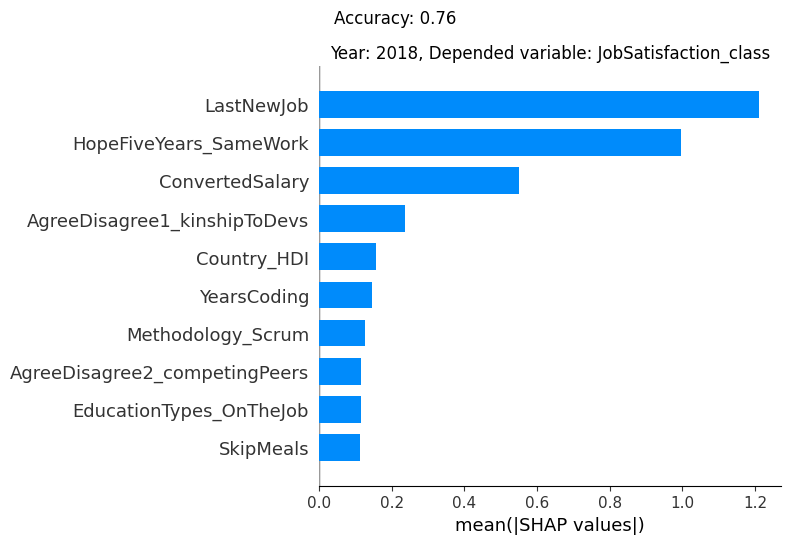
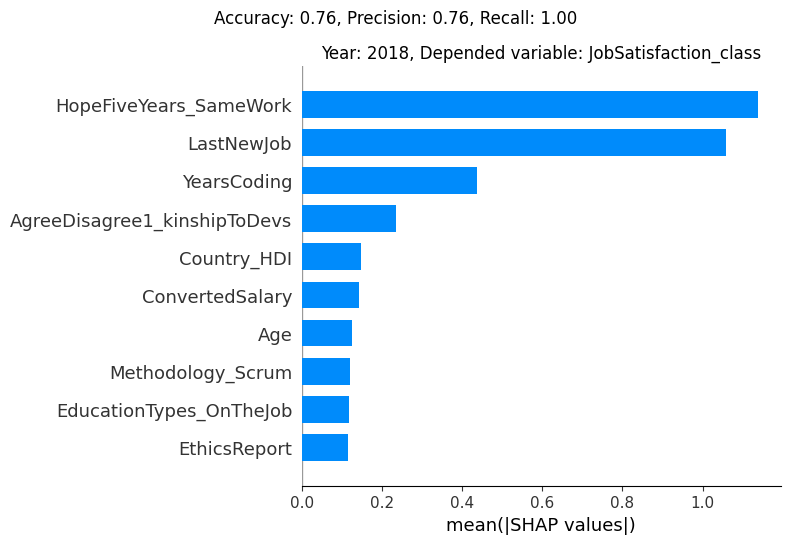
update

diff --git a/code/xgb.py b/code/xgb.py
@@ -3,7 +3,7 @@ import xgboost as xgb
 import pandas as pd
 import matplotlib.pyplot as plt
 import math
-from sklearn.metrics import mean_squared_error, r2_score, accuracy_score, mean_squared_log_error, make_scorer
+from sklearn.metrics import mean_squared_error, r2_score, accuracy_score, classification_report, confusion_matrix, recall_score, precision_score, mean_squared_log_error, make_scorer
 from sklearn.feature_selection import SelectFromModel
 import numpy as np
 # import seaborn as sns
@@ -55,8 +55,8 @@ def get_data(year):
 def fit():
     years = [2017, 2018, 2019]
     for year in years:
-        for var in regression_dependent_variables:
-            fit_model(get_data(year), var, False, f'{year}_{var}', year)
+        # for var in regression_dependent_variables:
+        #     fit_model(get_data(year), var, False, f'{year}_{var}', year)
         for var in class_dependent_variables:
             fit_model(get_data(year), var, True, f'{year}_{var}', year)
 
@@ -86,7 +86,9 @@ def fit_model(data, dependent_variable, is_classifier, name, year):
     preds = selection_model.predict(select_X_test)
     title = ''
     if is_classifier:
-        title = "Accuracy: %.2f" % accuracy_score(y_test, preds)
+        title = "Accuracy: %.2f" % accuracy_score(y_test, preds) + ", Precision: %.2f" % precision_score(y_test, preds)+ ", Recall: %.2f" % recall_score(y_test, preds)
+        # print(confusion_matrix(y_test, preds))
+        # print(classification_report(y_test, preds))
     else:
         title = "RMSLE: %.2f" % math.sqrt(abs(mean_squared_error(y_test, preds))) + ", R2: %.2f" % r2_score(y_test,
                                                                                                             preds)
